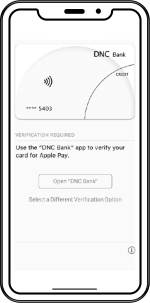
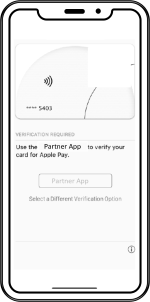
* Obfuscate BNC Bank * Hide Use cases from navbar

diff --git a/docusaurus.config.js b/docusaurus.config.js
@@ -33,12 +33,12 @@ module.exports = {
           label: 'API references',
           position: 'left',
         },
-        {
-          type: 'doc',
-          docId: 'use-cases/xpay/X-Pay',
-          label: 'Use cases',
-          position: 'left',
-        },
+        // {
+        //   type: 'doc',
+        //   docId: 'use-cases/xpay/X-Pay',
+        //   label: 'Use cases',
+        //   position: 'left',
+        // },
         {
           href: 'https://www.xpollens.com',
           label: 'xpollens.com',
